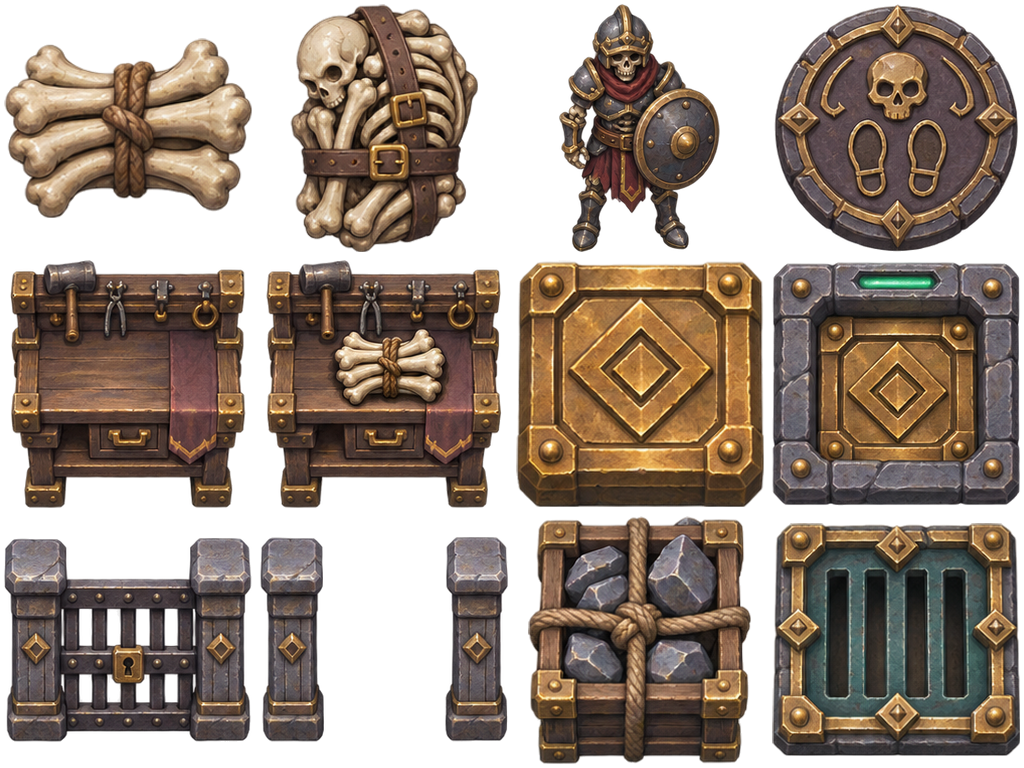
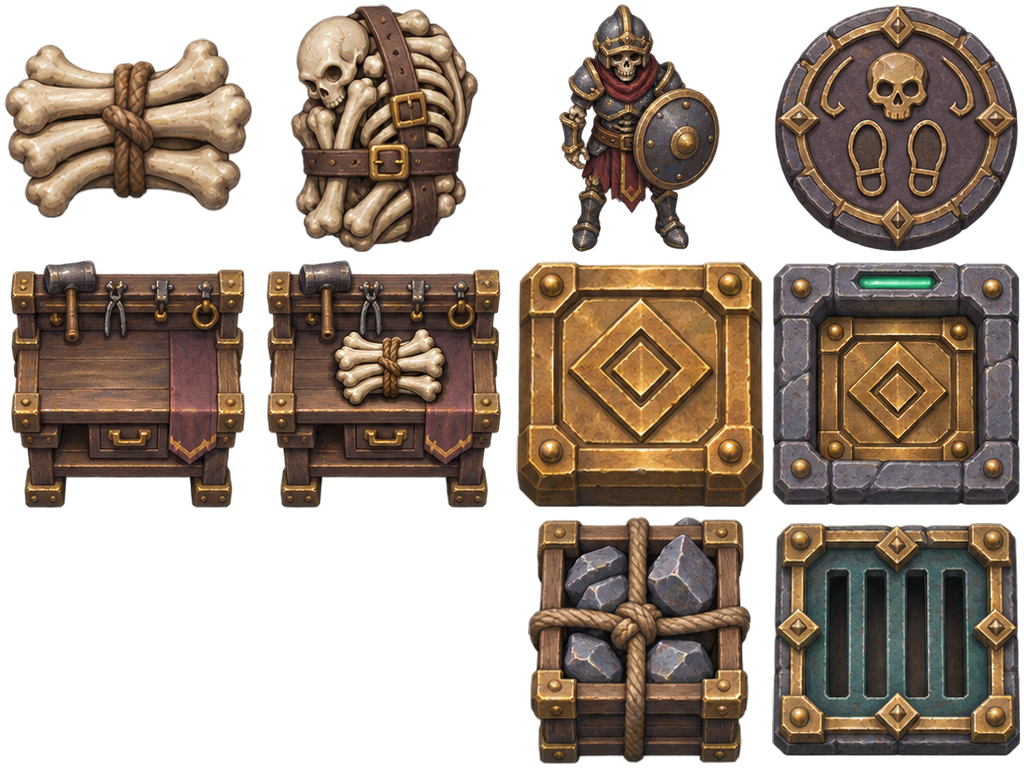
feat: 탑다운 연결문에 석재 문틀과 철제 문짝 적용
문틀과 문짝 스프라이트를 분리하고 개폐 중 양쪽 문짝이 기둥으로 들어가도록 구성한다. 도감에서 새 문을 보여 준다.

Changed region(s): [[0.0, 0.6875, 0.3438, 0.9688], [0.4375, 0.6875, 0.5, 0.9688]]

diff --git a/game/device_catalog.py b/game/device_catalog.py
@@ -35,7 +35,7 @@ CARDS = (
     DeviceCard("assembly", "해골 병사 조립", (("bench_empty", "작업대"), ("soldier_deployed", "병사")),
                "작업대 옆 칸에서 뼈 2묶음을 하나씩 납품하고, 병사를 배치대로 옮기세요.",
                "배치대에서 E / Space로 배치. 배치한 칸은 다시 들어갈 수 없어요."),
-    DeviceCard("plate", "발판과 연결문", (("plate_down", "발판"), ("gate_open", "연결문")),
+    DeviceCard("plate", "발판과 연결문", (("plate_down", "발판"), ("gate_closed", "연결문")),
                "수리공이나 물건으로 발판을 누르면 연결된 문이 열려요.",
                "무게가 사라지면 닫혀요. 문 위에 있으면 나갈 때까지 기다려요."),
     DeviceCard("chute", "뼈 투입구", (("chute_inlet", "투입구"), ("chute_outlet", "배출구")),
@@ -70,6 +70,9 @@ def catalog_buttons():
 
 def picture(view, name, x, y, width=160, height=126):
     if view.top_down:
+        if name in ("gate_open", "gate_closed"):
+            view.topdown_art.draw_gate(x, y, min(width, height), float(name == "gate_open"))
+            return
         sprite = {"mirror": "mirror_base", "mana_receiver": "receiver", "push_rubble": "rubble"}.get(name, name)
         size = min(width, height)
         view.topdown_art.draw(ROOM_SPRITES.get(sprite, sprite), x, y, size)

diff --git a/assets/topdown_v2/README.md b/assets/topdown_v2/README.md
@@ -1,6 +1,6 @@
 # 탑다운 플레이 에셋
 
-화면의 수평·수직 축에 맞춘 정사각 격자용 스프라이트입니다. 내장 ImageGen 원화를 투명 여백에서 잘라 아틀라스 18장에 스프라이트 186개를 담았습니다.
+화면의 수평·수직 축에 맞춘 정사각 격자용 스프라이트입니다. 내장 ImageGen 원화를 투명 여백에서 잘라 아틀라스 19장에 스프라이트 186개를 담았습니다.
 
 - 지형 16개는 여덟 방의 이동 바닥과 막힌 벽을 구분합니다.
 - 장치 16개는 함정, 출구, 레버, 작업대, 발판, 연결문, 초소, 잔해의 상태를 표현합니다.
@@ -13,5 +13,7 @@
 거울의 반사면과 화살표는 생성한 회전대 위에 현재 반사 각도로 그립니다. [원화 프롬프트](source/prompts.json)에 각 시트의 셀 순서와 수리공 참조를 기록했습니다.
 
 장치 개편은 `device_mechanisms`, `device_fixtures`, `device_magic`, `device_recording` 시트에서 가져옵니다. 마력 수신기는 연결되면 밝은 수정이 차오릅니다. 발자국이 새겨진 기록 발판은 기록 중 주황색 표시등이 켜지고, 재생 문양에는 모래시계가 보입니다. 장치 도감도 탑다운 플레이 중에는 같은 스프라이트를 사용합니다. [장치 개편 프롬프트](source/device_refresh_prompts.json).
+
+`device_gates` 시트는 연결문의 고정 석재 기둥과 움직이는 철제 문짝을 담습니다. 문짝이 기둥으로 들어가면 가운데 바닥이 드러납니다. 두 방향 모두 문짝은 문틀의 축을 따릅니다.
 
 `node tools/art/build-topdown-v2.mjs`로 원화에서 아틀라스와 `manifest.json`을 다시 만들 수 있습니다. 기존 아트 제작용 Sharp 패키지를 사용합니다.
